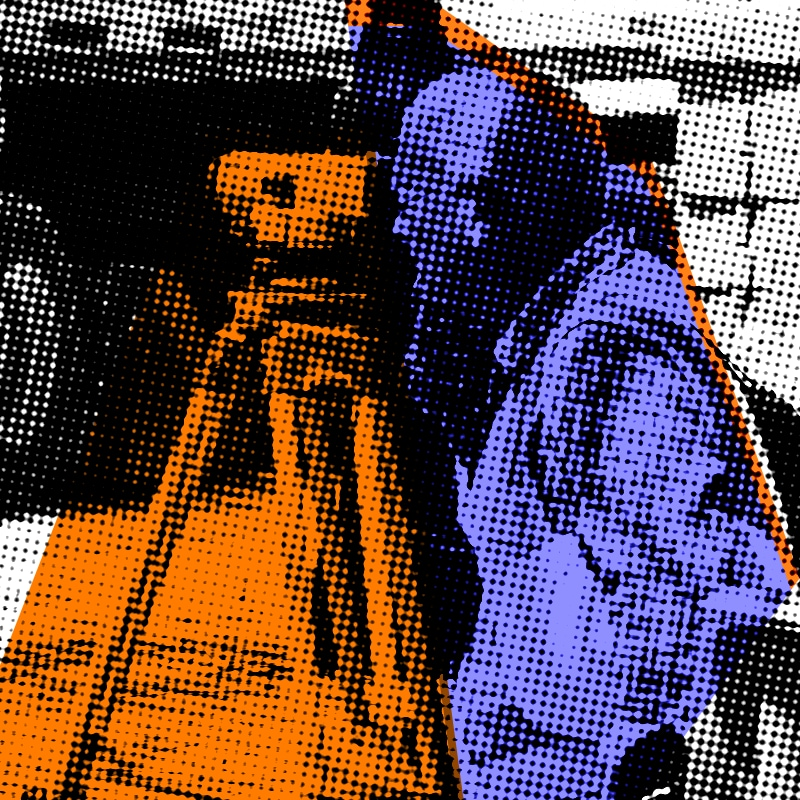
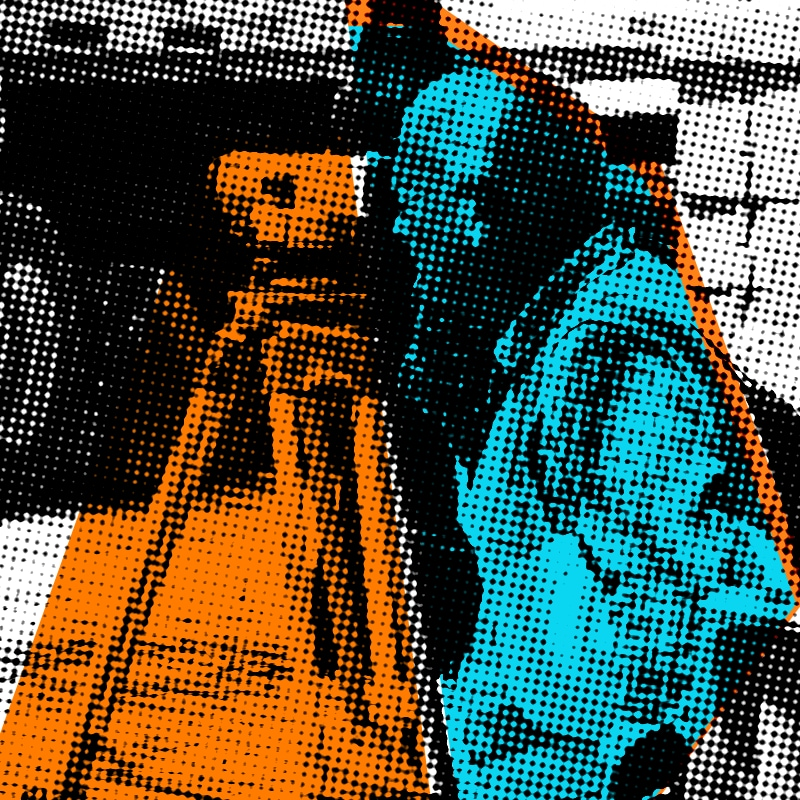
Set publish date to 2 July 2026; update hero image

diff --git a/src/pages/blog/on-co-specs-and-tri-checks.md b/src/pages/blog/on-co-specs-and-tri-checks.md
@@ -4,7 +4,7 @@ title: 'On co-specs and tri-checks'
 description: 'A specification worth building against is contested, codified and corroborated. Most are just written down.'
 category: 'ai'
 layout: '../../layouts/BlogPost.astro'
-publishedDate: '2026-06-25'
+publishedDate: '2026-07-02'
 heroImage: 'on-co-specs-and-tri-checks.jpg'
 tags:
   - 'ai'